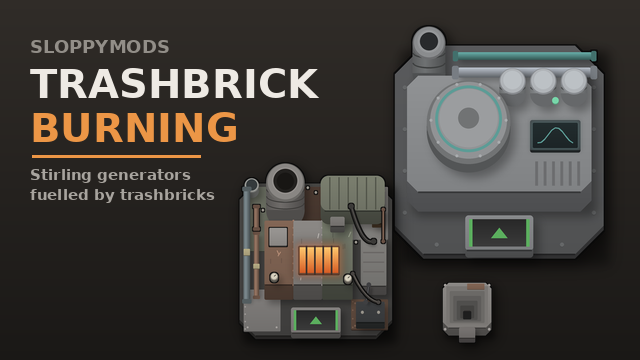
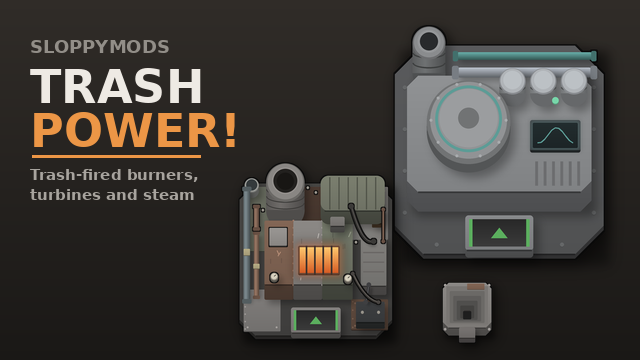
Rename the mod to SloppyMod Trash POWER! (0.4.2)
Display name, packageId (kanid99.SloppyModTrashPower), settings heading,
store preview art, README and testing notes. Internal def and code names
(STB_, TrashbrickBurning) are unchanged so existing saves still load.

Claude-Session: https://claude.ai/code/session_01FSSYiU2YVKnQyZL58Zsddr

Changed region(s): [[0.0312, 0.1833, 0.5, 0.4278], [0.0312, 0.4583, 0.3438, 0.5806]]

diff --git a/Source/Art/make_about_art.py b/Source/Art/make_about_art.py
@@ -49,10 +49,10 @@ for img, pos in placements:
 
 d = ImageDraw.Draw(card)
 d.text((30, 36), "SLOPPYMODS", font=ImageFont.truetype(BOLD, 18), fill=(146, 142, 136, 255))
-d.text((30, 60), "TRASHBRICK", font=ImageFont.truetype(BOLD, 40), fill=(238, 234, 228, 255))
-d.text((30, 104), "BURNING", font=ImageFont.truetype(BOLD, 40), fill=FIRE)
+d.text((30, 60), "TRASH", font=ImageFont.truetype(BOLD, 46), fill=(238, 234, 228, 255))
+d.text((30, 104), "POWER!", font=ImageFont.truetype(BOLD, 46), fill=FIRE)
 d.line([(32, 156), (200, 156)], fill=FIRE, width=3)
-for i, line in enumerate(("Stirling generators", "fuelled by trashbricks")):
+for i, line in enumerate(("Trash-fired burners,", "turbines and steam")):
     d.text((30, 166 + i * 20), line, font=ImageFont.truetype(BOLD, 15), fill=(168, 164, 158, 255))
 card.convert("RGB").save("About/Preview.png")
 

diff --git a/Source/TrashbrickBurning/TrashbrickBurningMod.cs b/Source/TrashbrickBurning/TrashbrickBurningMod.cs
@@ -9,7 +9,7 @@ namespace TrashbrickBurning
     /// Keep in step with modVersion in About/About.xml.</summary>
     public static class BuildInfo
     {
-        public const string Version = "0.4.1";
+        public const string Version = "0.4.2";
     }
 
     public class TrashbrickSettings : ModSettings

diff --git a/TESTING.md b/TESTING.md
@@ -6,13 +6,13 @@ leans on the one before it.
 
 ## Install
 
-1. Put the repo in `RimWorld/Mods/SloppyTrashbrickBurning/` (clone it there, or download the branch
+1. Put the repo in `RimWorld/Mods/SloppyModTrashPower/` (clone it there, or download the branch
    `claude/trash-brick-fuel-power-f6lia3` as a zip). The repo root *is* the mod folder: `About/`,
    `Defs/`, `1.5/`, `1.6/` and the rest sit directly in it. The compiled DLLs are committed, so
    there's nothing to build.
 2. Mod list, in this order: **Harmony**, Core, Biotech, **Vanilla Expanded Framework**,
    **Vanilla Recycling Expanded**, then optionally **Dubs Bad Hygiene** and **VFE - Factory**, then
-   **Sloppy Trashbrick Burning**.
+   **SloppyMod Trash POWER!**.
 3. Turn on **Development mode** (Options > General). You'll want the debug log and debug actions.
 
 **First check:** on the main menu, open the debug log (the icon top right). Any red lines
@@ -21,7 +21,7 @@ Yellow warnings are worth sending too.
 
 ## 1. Loading and settings
 
-- [ ] Options > Mod settings > **Trashbrick Burning** opens: the play mode checkbox, hazards, other
+- [ ] Options > Mod settings > **SloppyMod Trash POWER!** opens: the play mode checkbox, hazards, other
   fuels, four sliders and a reset button.
 - [ ] Start a new colony (or dev quickstart). No red errors in the log.
 - [ ] Debug actions > **Research all** (or research Electricity, Microelectronics and VRE complex

diff --git a/README.md b/README.md
@@ -1,4 +1,4 @@
-# Sloppy-trashbrick-burning
+# SloppyMod Trash POWER!
 A RimWorld mod (1.5 / 1.6) for burning trash bricks, and maybe more, for power.
 
 ## Requirements
